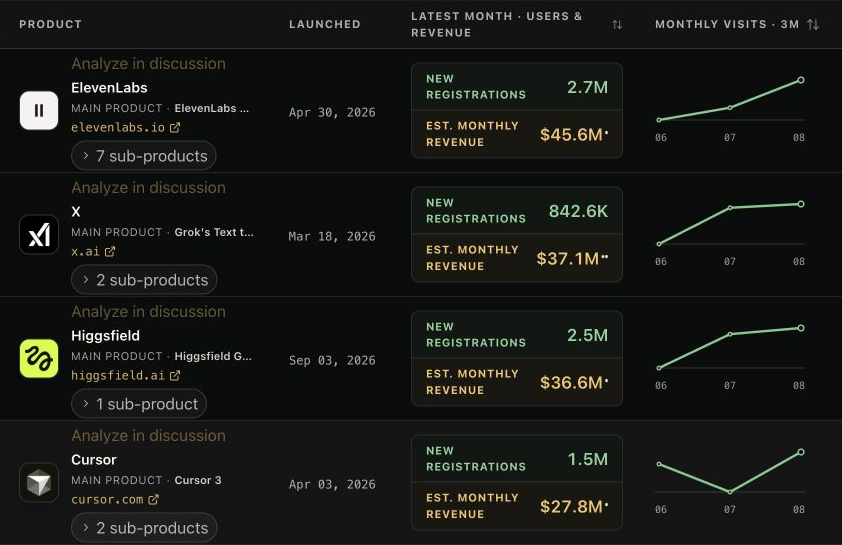
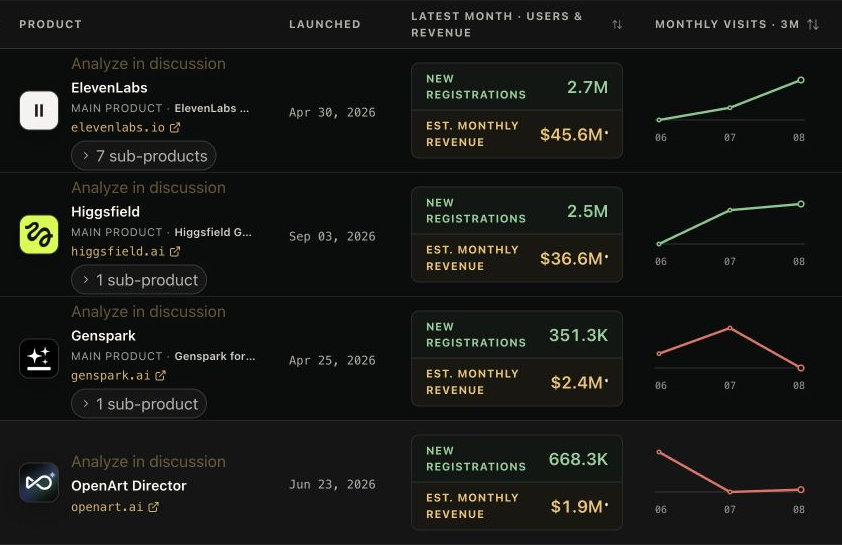
Update landing database screenshot with selected products

diff --git a/src/components/astromar-landing-page.tsx b/src/components/astromar-landing-page.tsx
@@ -381,7 +381,7 @@ export function AstromarLandingPage() {
                 <div className={styles.databaseScreenshotWindow}>
                   <Image
                     src="/images/business-database-preview.png"
-                    alt="Business Database first-page results showing ElevenLabs, X, Higgsfield and Cursor, with estimated monthly revenue and traffic trends."
+                    alt="Business Database first-page results showing ElevenLabs, Higgsfield, Genspark and OpenArt, with estimated monthly revenue and traffic trends."
                     width={842}
                     height={545}
                     className={styles.databaseScreenshot}
